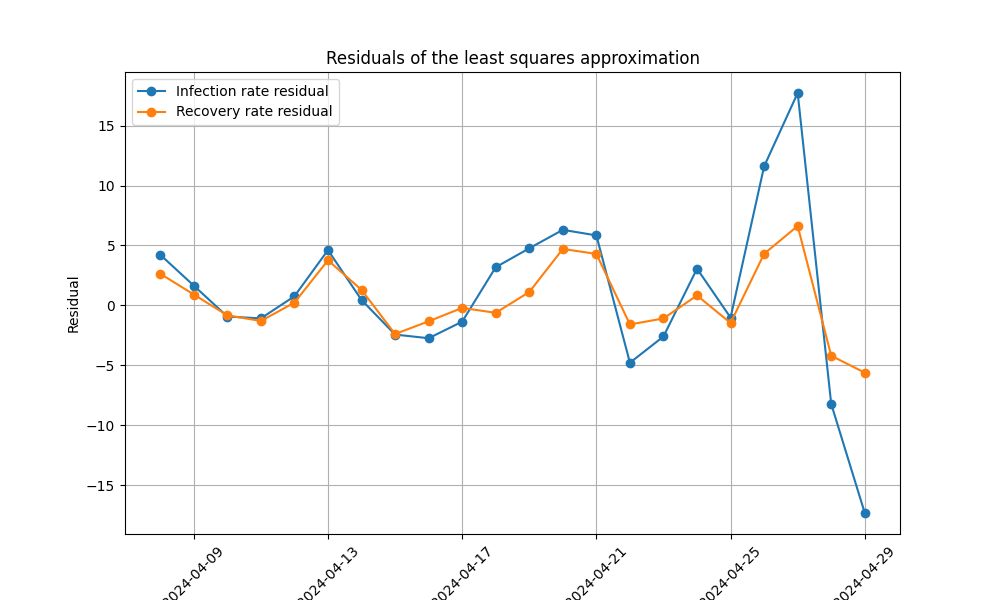
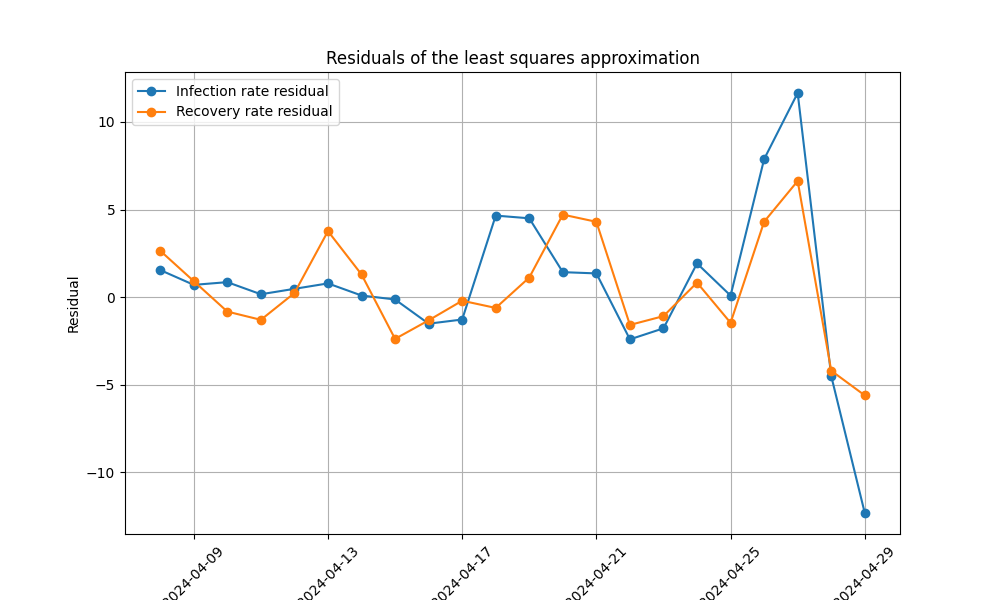
Used correct data columns

diff --git a/forward_euler.py b/forward_euler.py
@@ -1,6 +1,6 @@
 import numpy as np
 import matplotlib.pyplot as plt
-from common import import_data, TOTAL_INFECTIONS_COL, TOTAL_RECOVERIES_COL, DATE_COL
+from common import import_data,INFECTED_COL, TOTAL_RECOVERIES_COL, DATE_COL
 import pandas as pd
 
 
@@ -30,14 +30,14 @@ def forward_euler(S_init, I_init, R_init, beta, gamma, dt, duration):
     return S, I, R
 
 # As approximated in assignment 3
-beta = 0.8826642165086095
-gamma = 0.2501883071115894
+beta = 0.4195460684174166
+gamma = 0.2647898334098834
 dt = 0.001
 
 df = import_data()
 N_init = 1_000_000
 R_init = df[TOTAL_RECOVERIES_COL][0]
-I_init = df[TOTAL_INFECTIONS_COL][0]
+I_init = df[INFECTED_COL][0]
 S_init = N_init - I_init
 
 S, I, R = forward_euler(S_init, I_init, R_init, beta, gamma, dt, 20)
@@ -64,14 +64,14 @@ plt.savefig("diagrams/population_size.png")
 plt.figure(figsize=(10, 6))
 plt.plot(simulation_dates, I, marker="", linestyle="-")
 plt.plot(simulation_dates, R, marker="", linestyle="-")
-plt.plot(df["Date"], df[TOTAL_INFECTIONS_COL], marker="o", linestyle="-")
+plt.plot(df["Date"], df[INFECTED_COL], marker="o", linestyle="-")
 plt.plot(df["Date"], df[TOTAL_RECOVERIES_COL], marker="o", linestyle="-")
 plt.plot()
 plt.legend(["Simulated Infected", "Simulated Recovered", "Actual Infected", "Actual Recovered"])
 plt.title("Susceptable, Recovered and Infected Individuals over Time")
 plt.xlabel("Time")
 plt.ylabel("Individuals")
-plt.ylim(0, N[0] * 1.1)  # Sets the bottom to 0 and top to 10% above N
+# plt.ylim(0,  * 1.1)  # Sets the bottom to 0 and top to 10% above N
 plt.xticks(rotation=45)
 plt.tight_layout()
 plt.grid()

diff --git a/diff.py b/diff.py
@@ -18,7 +18,7 @@ def derivative(data: np.ndarray):
     return derivative
 
 df =import_data()
-infection_rate = derivative(df[TOTAL_INFECTIONS_COL].values)
+infection_rate = derivative(df[INFECTED_COL].values)
 recovery_rate = derivative(df[TOTAL_RECOVERIES_COL].values)
 
 plt.figure(figsize=(10, 6))
